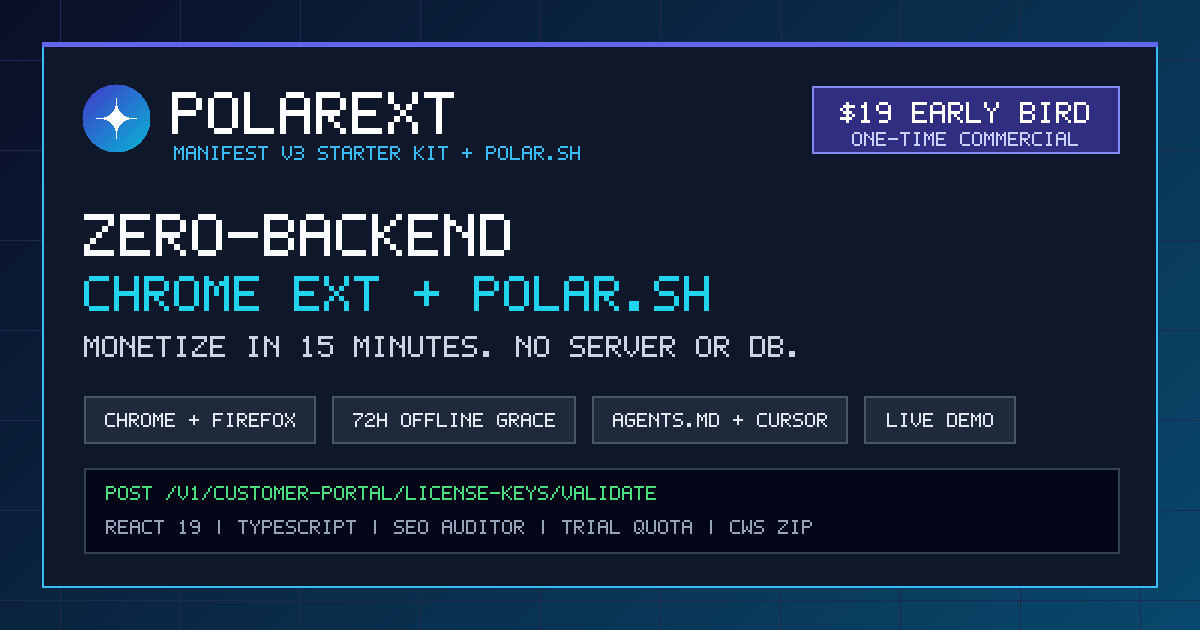
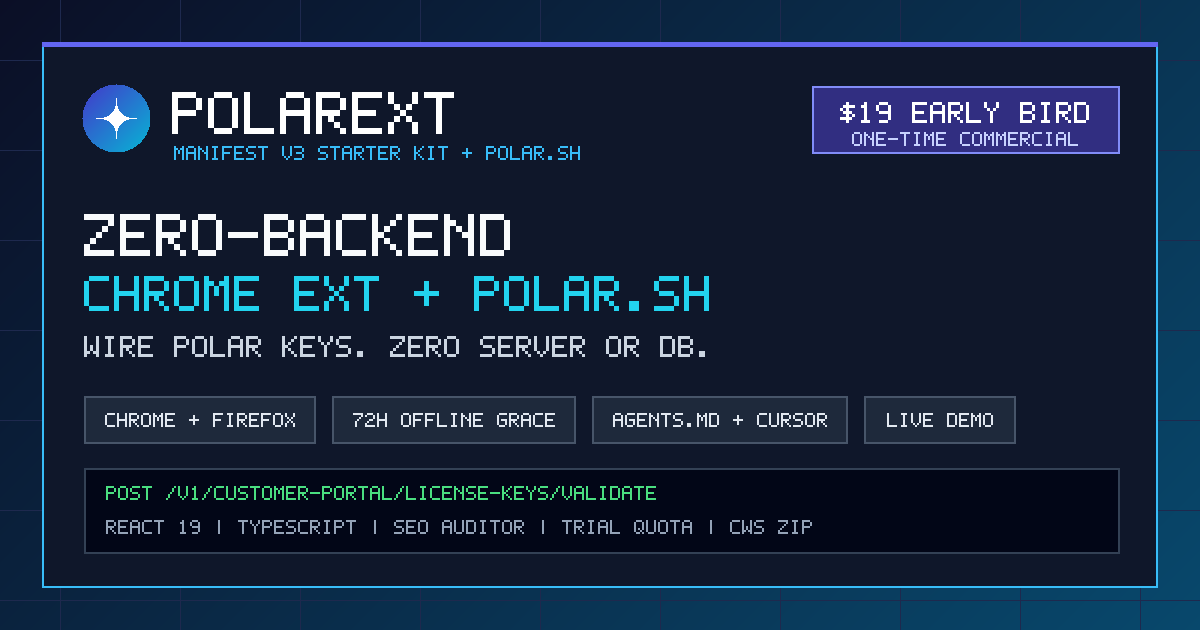
fix(landing): direct Polar checkout hrefs, honest client-side security FAQ, unified Chromium/Firefox copy & transparent batch count

Changed region(s): [[0.0617, 0.5127, 0.6783, 0.573]]

diff --git a/index.html b/index.html
@@ -4,30 +4,30 @@
     <meta charset="UTF-8" />
     <meta name="viewport" content="width=device-width, initial-scale=1.0" />
     <meta name="color-scheme" content="light dark" />
-    <title>PolarExt — Zero-Backend Chrome &amp; Firefox Extension + Polar.sh Starter Kit</title>
+    <title>PolarExt — Zero-Backend Chromium &amp; Firefox MV3 + Polar.sh Starter Kit</title>
     <meta
       name="description"
-      content="Lemon Squeezy is sunsetting. Monetize your Manifest V3 Chrome &amp; Firefox Extension in 15 minutes with Polar.sh license keys — zero backend, AI agent rules (AGENTS.md &amp; Cursor), daily trial quota, and live simulator."
+      content="Lemon Squeezy is sunsetting. Wire Polar.sh license keys into your Manifest V3 Chromium (Chrome, Edge, Brave) &amp; Firefox extension with zero backend, 72h offline grace, and 27 automated tests."
     />
     <link rel="canonical" href="https://jas845323.github.io/polarext/" />
     <link rel="icon" type="image/png" href="./favicon.png" />
 
     <meta property="og:type" content="website" />
     <meta property="og:url" content="https://jas845323.github.io/polarext/" />
-    <meta property="og:title" content="PolarExt — Zero-Backend Chrome &amp; Firefox Extension + Polar.sh Starter Kit" />
+    <meta property="og:title" content="PolarExt — Zero-Backend Chromium &amp; Firefox MV3 + Polar.sh Starter Kit" />
     <meta
       property="og:description"
-      content="Ship a paid MV3 browser extension in 15 minutes with Polar.sh license keys, 72h offline grace, daily trial quota, Firefox build, and Cursor/Claude Code rules. $19 early bird."
+      content="Skip server plumbing after Lemon Squeezy's sunset. MV3 React 19 + Polar.sh public license API, 72h offline grace, daily trial quota, and Chromium + Firefox builds. $19 launch price."
     />
     <meta property="og:image" content="https://jas845323.github.io/polarext/og-card.png" />
     <meta property="og:image:width" content="1200" />
     <meta property="og:image:height" content="630" />
 
     <meta name="twitter:card" content="summary_large_image" />
-    <meta name="twitter:title" content="PolarExt — Zero-Backend Chrome &amp; Firefox Extension + Polar.sh Kit" />
+    <meta name="twitter:title" content="PolarExt — Zero-Backend Chromium &amp; Firefox MV3 + Polar.sh Kit" />
     <meta
       name="twitter:description"
-      content="Zero backend, zero server bill. MV3 React 19 + Polar.sh license keys, 72h offline grace, Firefox MV3 build, and AGENTS.md / Cursor rules. Try the live in-browser demo."
+      content="Zero backend, zero server bill. MV3 React 19 + Polar.sh license keys, 72h offline grace, Chromium + Firefox MV3 builds, and 27 automated tests. Try the live in-browser demo."
     />
     <meta name="twitter:image" content="https://jas845323.github.io/polarext/og-card.png" />
 
@@ -55,32 +55,36 @@
     <main>
       <section class="hero">
         <div class="container">
-          <span class="eyebrow">v1.2 · Chrome + Firefox MV3 · React 19 · Polar.sh · Cursor &amp; Claude Code Ready</span>
+          <span class="eyebrow">v1.2 · Chrome, Edge, Brave &amp; Firefox MV3 · React 19 · Polar.sh · 27 Tests</span>
           <h1>
             Lemon Squeezy is sunsetting.<br />
-            Monetize your Chrome Extension in 15 minutes with Polar.sh.
+            Wire Polar.sh license keys into your MV3 extension — with zero backend.
           </h1>
           <p class="hero-sub">
-            Skip building auth servers, webhook databases, and VAT headaches. PolarExt ships a
-            complete MV3 SEO &amp; Link Inspector extension wired directly to Polar's zero-backend
-            Customer Portal license APIs, 72-hour offline grace cache, daily free-trial quota,
-            Firefox MV3 build, and pre-tuned <code>AGENTS.md</code> + Cursor rules.
+            Skip writing boilerplate license state machines, alarm revalidation, and Manifest V3
+            packaging scripts. PolarExt ships a working SEO &amp; Link Inspector extension wired to
+            Polar's public Customer Portal license API, 72-hour offline grace cache, UTC daily trial
+            quota, dual Chromium (Chrome/Edge/Brave) + Firefox builds, and 27 Vitest tests.
           </p>
           <div class="hero-actions">
-            <a href="#pricing" class="btn btn-primary" data-checkout-cta="early">
-              Get Early Bird Access — $19
+            <a
+              href="https://buy.polar.sh/polar_cl_JOUtaxug7idO6T32vNYuAYgL67hf6MvtT37IR3iRD2N"
+              class="btn btn-primary"
+              data-checkout-cta="early"
+            >
+              Get Launch Copy — $19
             </a>
             <a href="#simulator" class="btn btn-secondary">Try Interactive Simulator</a>
           </div>
           <p class="hero-meta">
-            One-time purchase · Instant GitHub Private Repo invite + clean source ZIP · Unlimited commercial rights
+            One-time purchase · Instant clean source ZIP download (219 KB) + GitHub repo · Commercial license
           </p>
 
           <ul class="trust-strip" aria-label="Key starter kit highlights">
             <li><strong>$0/mo</strong><span>Backend &amp; DB Cost</span></li>
-            <li><strong>Chrome + Firefox</strong><span>Dual MV3 Builds</span></li>
-            <li><strong>AGENTS.md + .mdc</strong><span>Cursor &amp; Claude Ready</span></li>
-            <li><strong>25+ Tests</strong><span>Strict TS + Vitest</span></li>
+            <li><strong>Chrome / Edge / Firefox</strong><span>Dual MV3 Builds</span></li>
+            <li><strong>27 / 27 Tests</strong><span>Strict TS + Vitest</span></li>
+            <li><strong>99 KB ZIP</strong><span>Validated CWS Bundle</span></li>
             <li><strong>72h Grace</strong><span>Offline License Cache</span></li>
           </ul>
         </div>
@@ -328,7 +332,7 @@
                 SEO &amp; Link Auditor
               </button>
               <button type="button" id="feat-tab-surfaces" role="tab" class="preview-tab" aria-selected="false">
-                Chrome + Firefox MV3
+                Chrome, Edge &amp; Firefox MV3
               </button>
               <button type="button" id="feat-tab-dx" role="tab" class="preview-tab" aria-selected="false">
                 AI Rules &amp; Release Pipeline
@@ -385,12 +389,13 @@
               <div role="tabpanel" aria-labelledby="feat-tab-surfaces" hidden="until-found">
                 <div class="preview-panel">
                   <div class="preview-copy">
-                    <h3>Cross-Browser MV3: Popup, 4-Tab Side Panel &amp; Firefox Build</h3>
+                    <h3>Cross-Browser MV3: Chrome, Edge, Brave &amp; Firefox</h3>
                     <p>
                       Three complete React 19 surfaces styled with native <code>light-dark()</code>
                       tokens, System / Light / Dark appearance override, accessible
-                      <code>:user-invalid</code> form validation, and an automated Firefox MV3 build
-                      converting <code>side_panel</code> to <code>sidebar_action</code>.
+                      <code>:user-invalid</code> form validation, a Chromium MV3 build
+                      (<code>dist/</code> for Chrome, Edge, Brave, Arc), and an automated Firefox MV3
+                      build converting <code>side_panel</code> to <code>sidebar_action</code>.
                     </p>
                     <ul>
                       <li>Global keyboard shortcut <code>Alt+Shift+P</code> opens Side Panel</li>
@@ -491,7 +496,7 @@
                   <td>Manual manifest diffs</td>
                   <td>Chrome + Firefox</td>
                   <td>Usually Chrome-only</td>
-                  <td class="col-highlight"><strong>Chrome + Edge + Firefox</strong></td>
+                  <td class="col-highlight"><strong>Chrome, Edge, Brave &amp; Firefox</strong></td>
                 </tr>
                 <tr>
                   <th scope="row">AI Agent Rules</th>
@@ -517,23 +522,28 @@
         <div class="container">
           <h2>Simple, One-Time Pricing</h2>
           <p class="section-lead">
-            Pay once, build unlimited personal or commercial Chrome &amp; Firefox Extensions.
+            Pay once, build unlimited personal or commercial Chromium (Chrome, Edge, Brave) &amp;
+            Firefox Extensions.
           </p>
 
           <div class="pricing-grid">
             <article class="price-card featured">
-              <span class="pill">First 20 Buyers</span>
+              <span class="pill">Launch Batch · 20 / 20 Left</span>
               <h3>Early Bird Kit</h3>
               <p class="price">$19 <span class="price-note">USD one-time</span></p>
               <ul>
-                <li>Full Chrome + Firefox MV3, React 19, TypeScript &amp; SEO Auditor source</li>
+                <li>Full Chromium (Chrome/Edge/Brave) + Firefox MV3, React 19 &amp; TypeScript source</li>
                 <li>Zero-backend Polar.sh client (seats, metered usage, 72h grace &amp; daily trial quota)</li>
                 <li><code>AGENTS.md</code>, <code>CLAUDE.md</code> &amp; <code>.cursor/rules/</code> for AI-assisted shipping</li>
-                <li><code>npm run setup</code> wizard, <code>npm run dev</code> watcher &amp; 25+ Vitest tests</li>
+                <li><code>npm run setup</code> wizard, <code>npm run dev</code> watcher &amp; 27 Vitest tests</li>
                 <li>Pure-Node icon, <code>1280x800</code> screenshot, OG card generators &amp; CWS ZIP packager</li>
-                <li>Instant GitHub Private Repo invite + clean source ZIP download</li>
+                <li>Instant clean source ZIP download (219 KB) + GitHub Private Repo access</li>
               </ul>
-              <a href="https://polar.sh" class="btn btn-primary btn-full" data-checkout-cta="early">
+              <a
+                href="https://buy.polar.sh/polar_cl_JOUtaxug7idO6T32vNYuAYgL67hf6MvtT37IR3iRD2N"
+                class="btn btn-primary btn-full"
+                data-checkout-cta="early"
+              >
                 Buy Early Bird — $19
               </a>
             </article>
@@ -543,13 +553,17 @@
               <h3>Pro Starter Kit</h3>
               <p class="price">$29 <span class="price-note">USD one-time</span></p>
               <ul>
-                <li>Everything in Early Bird Kit (v1.2+ full source)</li>
-                <li>Future MV3, Firefox &amp; Polar.sh API compatibility updates</li>
+                <li>Everything in Early Bird Kit (v1.2 full source)</li>
+                <li>Future MV3, Chromium/Firefox &amp; Polar.sh API compatibility updates</li>
                 <li>Landing page + interactive simulator + OG card + Privacy Policy template</li>
                 <li>Unlimited commercial extensions for you or your studio</li>
                 <li>Priority GitHub Issues support</li>
               </ul>
-              <a href="https://polar.sh" class="btn btn-secondary btn-full" data-checkout-cta="standard">
+              <a
+                href="https://buy.polar.sh/polar_cl_pi57oDERpuWUxarZU1yR8bZvIvdNUXwage0353rOJAJ"
+                class="btn btn-secondary btn-full"
+                data-checkout-cta="standard"
+              >
                 Get Standard Kit — $29
               </a>
             </article>
@@ -573,6 +587,23 @@
                 <span class="collapse">Collapse all</span>
               </button>
             </div>
+
+            <details>
+              <summary>Can't client-side license validation be bypassed in browser extensions?</summary>
+              <div class="faq-body">
+                <p>
+                  <strong>Yes — let's be completely honest about this.</strong> Because extension
+                  JavaScript runs locally in the user's browser, a determined developer can always
+                  inspect DevTools, patch the unpacked bundle, or mock a network response to unlock
+                  local UI features. Zero-backend validation is an intentional engineering tradeoff
+                  for <strong>$5–$29 local utility extensions</strong> where your marginal cost per
+                  user is $0: you avoid paying monthly server bills while 99% of normal users happily
+                  buy a license. If your extension proxies paid server resources (like LLM API keys
+                  or proprietary data), you should validate the Polar license key on your backend
+                  before serving those API calls.
+                </p>
+              </div>
+            </details>
 
             <details>
               <summary>Do I need to run a backend server or database?</summary>

diff --git a/README.md b/README.md
@@ -1,8 +1,8 @@
-# PolarExt — Zero-Backend Chrome & Firefox Extension + Polar.sh Starter Kit (v1.2)
+# PolarExt — Zero-Backend Chromium & Firefox MV3 + Polar.sh Starter Kit (v1.2)
 
-![PolarExt — Zero-Backend Chrome & Firefox Extension + Polar.sh Starter Kit](./og-card.png)
+![PolarExt — Zero-Backend Chromium & Firefox MV3 + Polar.sh Starter Kit](./og-card.png)
 
-**Lemon Squeezy is sunsetting. Monetize your Manifest V3 Chrome & Firefox Extension in 15 minutes with Polar.sh license keys — zero backend, zero monthly server cost.**
+**Lemon Squeezy is sunsetting. Wire Polar.sh license keys into your Manifest V3 Chromium (Chrome, Edge, Brave) & Firefox extension — zero backend, zero monthly server cost, 27 automated tests.**
 
 - **Live Landing Page & Interactive In-Browser Simulator:** https://jas845323.github.io/polarext/
 - **Privacy Policy (Chrome Web Store Ready):** https://jas845323.github.io/polarext/privacy.html
